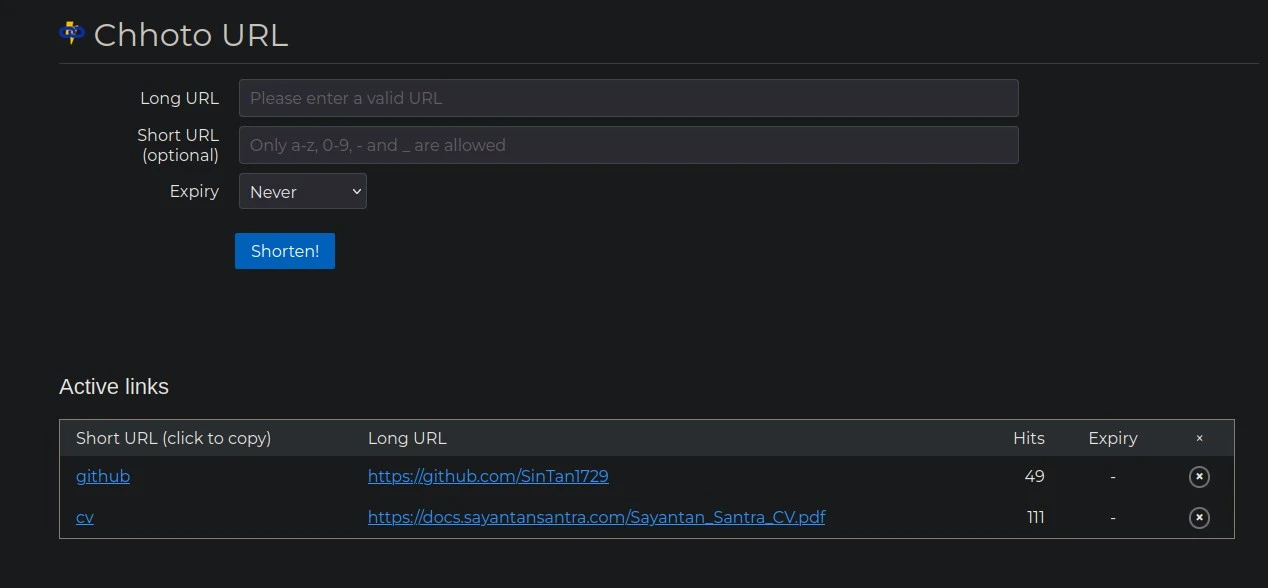
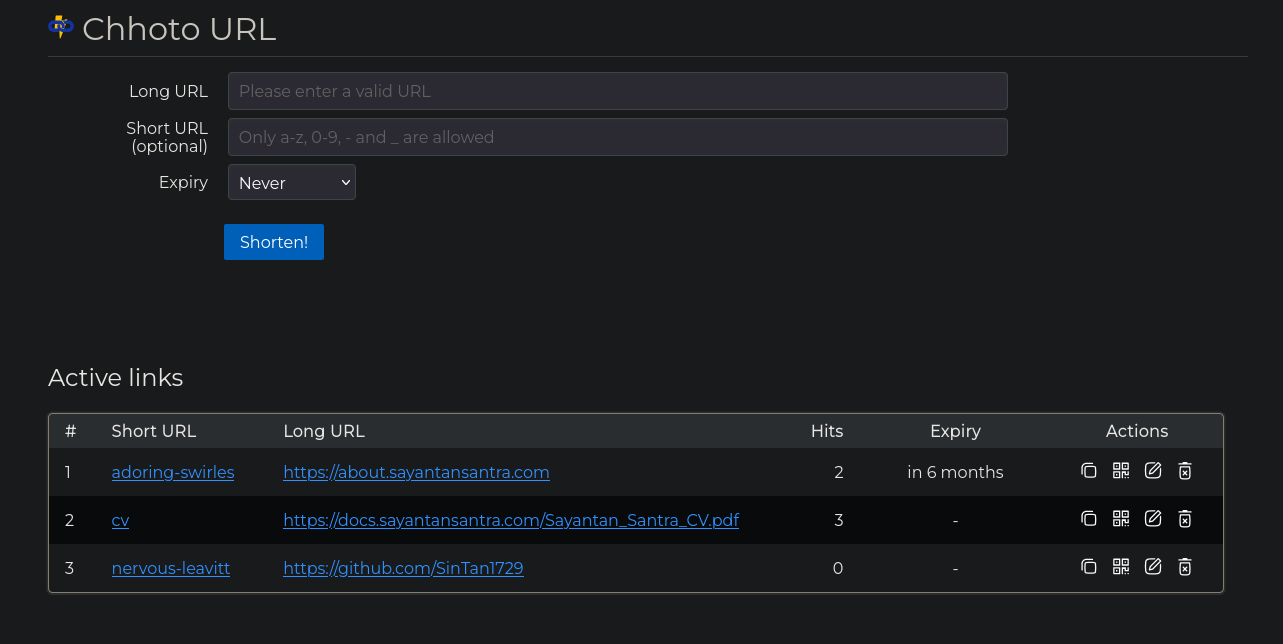
docs: Updated docs to match the current state

diff --git a/CLI.md b/CLI.md
@@ -22,6 +22,10 @@ validation (see section above). If the API key is insecure, a warning will be ou
 
 Example Linux command for generating a secure API key: `tr -dc A-Za-z0-9 </dev/urandom | head -c 128`
 
+For each response, the response code will be `200`, `401`, `400`, `500`, or `404`, depending on the context. The routes are as follows.
+
+#### `/api/new`
+
 To add a link:
 
 ```bash
@@ -51,6 +55,8 @@ or
   "reason": "<reason>"
 }
 ```
+
+#### `/api/getconfig`
 
 To get the config for the backend:
 
@@ -82,7 +88,38 @@ The server will reply in the following format.
 }
 ```
 
-To get information about a single shortlink:
+#### `/api/whoami`
+
+To get the current user role:
+
+```bash
+curl -H "X-API-Key: <YOUR_API_KEY>" http://localhost:4567/api/whoami
+```
+
+The server will reply with `admin` if admin access is granted, `public` if admin access is not granted but public mode is enabled,
+and `nobody` if no access is granted.
+
+#### `/api/edit`
+
+To edit an existing short link:
+
+```bash
+curl -X POST -H "X-API-Key: <YOUR_API_KEY>" -d '{"shortlink":"<shortlink>", "longlink":"<longlink>", "reset_hit_count": <bool>}' http://localhost:4567/api/edit
+```
+
+The server will reply in the following format.
+
+```json
+{
+    "success": true/false,
+    "error": false/true,
+    "reason": "<reason"
+}
+```
+
+#### `/api/expand`
+
+To get information about a single short link:
 
 ```bash
 curl -H "X-API-Key: <YOUR_API_KEY>" -d '<shortlink>' http://localhost:4567/api/expand
@@ -112,11 +149,15 @@ or
 
 (This route is not accessible using cookie validation.)
 
+#### `/api/all`
+
 To get a list of all the currently available links:
 
 ```bash
 curl -H "X-API-Key: <YOUR_API_KEY>" http://localhost:4567/api/all
 ```
+
+#### `/api/del/{shortlink}`
 
 To delete a link:
 

diff --git a/README.md b/README.md
@@ -60,6 +60,8 @@ Password: `chhoto-url-demo-pass`
   stays under 5MB under normal use.)
 - Counts number of hits for each short link in a privacy respecting way
   i.e. only the hit is recorded, and nothing else.
+- Short links can be edited after creation.
+- QR codes can be generated for easy sharing.
 - Supports operation using API key, and lets the user provide hashed password and API key.
 - Has a mobile friendly UI, and automatic dark mode.
 - Can serve a custom landing page, if needed.
@@ -116,5 +118,5 @@ Password: `chhoto-url-demo-pass`
   version of [this list used by docker](https://github.com/moby/moby/blob/master/pkg/namesgenerator/names-generator.go).
 - Although it's unlikely, it's possible that your database is mangled after some update. For mission critical use cases,
   it's recommended to keep regular versioned backups of the database, and sticking to a minor release tag e.g. 5.8.
-- If you intend to have more than a few thousand shortlinks, it's strongly recommended that you use the UID `slug_style`
+- If you intend to have more than a few thousand short links, it's strongly recommended that you use the UID `slug_style`
   with a `slug_length` of 16 or more.
